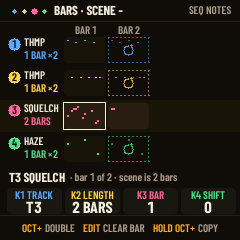
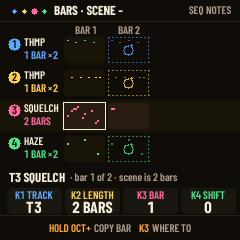
TFM-UI round 10: the report and the re-rendered screens -- NIGHT-REPORT-UI.md Round 10 (sizes per item, the budgets: flash 64,748 B free, RAM 4,120 B free, ISR +8.9 %; the scene sheet's undo and its one gap, the browse's one undo, the hold footers and the first-run bit, what moved on MIX and DRUMS, 

Changed region(s): [[0.0875, 0.9333, 0.9042, 0.9917]]

diff --git a/NIGHT-REPORT-UI.md b/NIGHT-REPORT-UI.md
@@ -332,3 +332,61 @@ Branch `tfm-ui`: `446cbbd` (1), `a61df7f` + `dcd7655` (2, then its budget), `151
 **Tests:** tests/ui_test_r6.h (round 9 section): `test_r9_knob_speed`, `test_r9_dj`, `test_r9_drum_faces`, `test_r9_drum_keys`, `test_r9_key_level`; round 8's kits / pitched-lane tests follow the new names and keys.
 
 **Suite (round 9):** tests=0 (ALL HOST TESTS PASSED), no FAIL lines, target_budget 0 (the audio ISR 9,016 against 8,285: +8.8 %, within the +10 %; it was 8,592 after item 2, and item 4's key setup is out of line to stay inside). The earlier runs caught the scene-load bug and the editor range (both fixed above). 0 lint findings, alignment 0 off. Final build 509,460 B, RAM 63,368 B, pool 365,756 B. Published as the installer preview (next/), the tested release at the root unchanged.
+
+## Round 10 (ROUND-10.md: easy to make, easy to find)
+
+Branch `tfm-ui`: `fbe50da` (1), `008004d` (2), `d7f75dd` (3), `cba3b09` (4), `f3faf7a` (5), `d5e4d38` + `d6ad1c5` (6), `1a8d9cf` (7), `514318d` (8), `efe5876` (the suite). Package `tilt-fm-ui-r10-<sha>.fwsc`. Nothing was run on an FM-1. Plan and review in `TILT-FM/tasks/todo.md`.
+
+**Budgets** (app image / RAM .data+.bss; pool 365,756 B, unchanged): round 9 final 509,460 / 63,368. Item 1: 513,452 / 63,416. Item 2: 515,032 / 63,464. Item 3: 515,976. Item 4: 516,512. Item 5: 516,312. Item 6: 516,320, then 516,176. Item 7: 516,816 (the splash +640). **Flash: 516,816 of the 581,564 B slot, 64,748 free. RAM: 63,464 of 67,584 B, 4,120 free (+96 this round). Audio ISR: 9,021 against its 8,285 budget, +8.9 % (limit +10 %; 9,016 after round 9).** Note: the round file called 4,216 B the *flash* headroom; that was round 9's RAM headroom. Flash had 72,104 B free and has 64,748 now. Nothing had to be left out.
+
+1. **JAM's scene sheet.**
+   - **Tap and hold:** tap a scene key and it launches, as before. Hold it ~400 ms and its sheet opens over the cabinets: the letter big, its bars, its tracks, and four actions. No key plays while the sheet is open.
+   - **The actions:**
+     - F3 DUP copies the scene to the next empty one (up from it, wrapping) and cues the copy. With none free: NO EMPTY SCENE.
+     - G3 CLEAR asks first.
+     - A3 x2 makes every track twice as long, copying its steps, notes and automation after themselves (64 steps at most).
+     - B3 /2 halves every track, keeping the first half.
+   - **Letting go:** the sheet closes and nothing launches. Round 6's held combos are gone, so two quick taps never copy.
+   - **Playing:** a stored scene changes now, through the RAM path. `scn_store_ram` can now queue an erase too, which `scene_flush` performs at the stop. So nothing erases or writes flash while playing; when three scenes already wait, STOP TO SAVE, as before. The scene playing changes at its loop's end: the header says AT LOOP END, and the action is dropped if the music leaves that scene.
+   - **Undo:** hold SAVE right after an action.
+     - DUP: the copy goes and the music returns to its scene.
+     - CLEAR, x2, /2: the scene as it was.
+     - It is one level, through `scene_ubuf`, the scene undo image the SCENE layer already kept in the pool. **No new RAM for a scene**: the whole item cost +48 B.
+     - An undo generation count makes SAVE undo the sheet only when it was the last action.
+     - **One gap:** undoing DUP while the copy is already the scene playing says STOP TO UNDO.
+   - **Scope:** DUP of the playing scene applies at once, since it doesn't change the playing scene; it cues the copy for the bar's end.
+   - Test `test_r10_sheet`. "No flash while playing" is checked through host counters: every scene store while playing went through the RAM path, which never writes flash on the device. Round 5's test now checks the old combos do nothing. Render `ui_jam_sheet`.
+2. **PRESETS browse.**
+   - The first detent only shows the SOUND CARD; sounds change from a second detent within ~1 s, then live, one sound per detent, with MORPH back to 0.
+   - The card shows the instrument's name in its colour, the sound big, a dot per sound and "n of N". At either end it says HOLD EDIT: OTHER INSTRUMENTS. It closes ~2 s after the last detent, and the screen under it isn't drawn meanwhile.
+   - **One undo per browse:** the first change takes the copy, and the loads after it run nested so they keep it. Hold SAVE, or OCT- on the card, gives the starting sound.
+   - Tracks with no TFM instrument step Felucca's presets with the same card.
+   - Test `test_r10_browse`. Render `ui_sound_card`.
+3. **Hold footers.** A button held on any TFM screen puts what its hold does in the footer (tu_foot, at most 3 pairs) until the hold engages. The layers' own maps already had footers.
+   - The lines: SAVE UNDO; HOME MENU; EDIT INSTRUMENTS; ENV F3 NEW SONG / G3 STUCK / A3 MUTATE; FX PUNCH-IN; GLO LIVE; SCL ROOT; SEQ STEP TOOLS; REC CLICK, COUNT-IN; LFO MOMENTARY; ARP DJ.
+   - OCT+: STEP SHEET on NOTES and DRUMS, COPY BAR on BARS, nothing elsewhere (there it's the octave).
+   - **First run:** JAM says HOLD A BUTTON: SEE WHAT IT DOES until a button has been held 400 ms. That is remembered in `layer_seen` bit 0, LAYER_NONE's never-used bit, saved with the settings with no size change. (`ui_prefs2`'s "free" bit 7 is actually 2ND CORE.)
+   - Test `test_r10_hold_foot`: 13 screens, every line within the footer's width, and the first-run bit across a settings export and import.
+4. **Black-key strips** on MIX and DRUMS, in JAM's places.
+   - MIX: T1-T4 mute (lit while playing); the other seven keys are dark.
+   - DRUMS: the eight lanes in TILT's colours (the cursor's lit), C#5 ACC, D#5 / F#5 PG- / PG+.
+   - **What moved:** MIX's faders are 82 px from y 64 (were 115 from 70), the level at 157 and MUTED at 170 (were 198 and 210). DRUMS' knob cards moved 4 px up (149 .. 174).
+   - Renders `ui_mix`, `ui_drums`.
+5. **Undo undoes the last action.** NOTES' delete and STEP's clear now take the step copy first. SONG's section delete keeps the chain as JAM's CHAIN does (`jw_undo`, now shared), and hold SAVE puts it back.
+   - Test `test_r10_undo_delete`: each gives the state just before the delete, not an older copy's. **All three checks failed on the old code** before the fix.
+6. **The build on screen.** TILT_VERSION is 0.3.0. TILT_BUILD shows on the splash and next to MENU in the menu header (11 px). To make room there, HOME's hint on the main menu page is its keycap alone (no CLOSE word). Lint passes at the real length (`r10-<sha>`, with the REC mark showing).
+7. **The DMD splash** (`_splash_vs_drawing.png` in tfm-spec/built: the drawing via headless Chrome, left; the render, right).
+   - Built as drawn: the dot field, TILT at 8 px pitch / 6 px dots from y 30, -FM- at 4 px / 3 px at 98, the ball's trail, two dotted flippers at 18° around the drain gap, FREE PLAY, and the two credits (Felucca's GPL credit kept).
+   - lcd_fill dots, no bitmaps; the web emulator calls the same function; the timing and kb_boot_hold are untouched.
+   - **Differences:**
+     - The drawing's credits are 6 px at 1x, under the 11 px rule, so they are 12 px and everything below the flippers sits a few px higher.
+     - FREE PLAY's glow is left out (a second draw offsets the text rather than glowing it).
+   - **Flash: +640 B.**
+8. **tfm-spec/HARDWARE-CHECK.md**: a one-page tick list for rounds 9 and 10, with a blank for each result.
+
+**Exit path** (tasks/lessons.md):
+- The editor's backup export is covered by the suite's web backup test (capture, validation, restore order).
+- **No copy of the official V15 is on this PC** (only the V16 download), so the "Return to official V15" path could not be run against a real file and no pinned copy exists yet. Please put your V15 `FM-1.fwsc` in the TILT-FM folder; I'll check its hash and keep it with its SHA-256.
+- M-VAVE's page still offers V16 (2026_10_21), unchanged since round 9.
+
+**Suite (round 10):** tests=0 (ALL HOST TESTS PASSED), no FAIL lines, target_budget 0. The first run caught persistence_test, which builds project.c without the TFM UI: the sheet's storage half is now built with the UI only (`efe5876`). 0 lint findings, alignment 0 off. Final build 516,816 B, RAM 63,464 B, pool 365,756 B. Published as the installer preview (next/), the tested release at the root unchanged.
